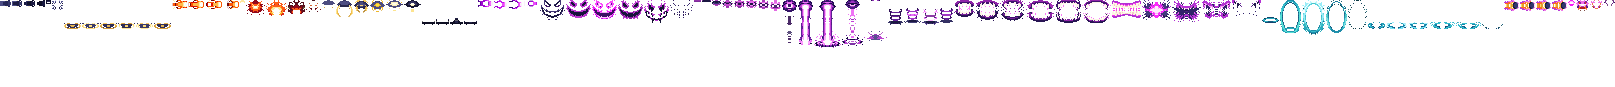
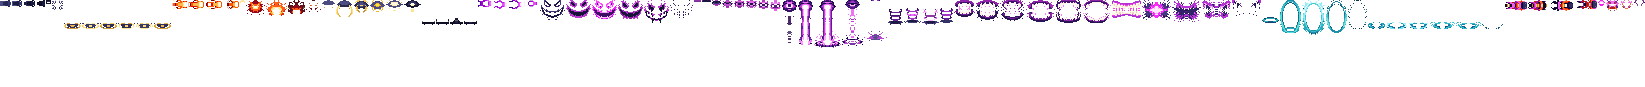
Hwei: Gemini's r_paint (the user's later JPG) replaces the drawn one - read 24 x 12, the white inside its spiral loops and its pale fringe keyed; sheets re-imported

diff --git a/tools/art/process_hwei_fx.py b/tools/art/process_hwei_fx.py
@@ -11,8 +11,9 @@ Which JPGs are his: the 24 downloaded 16:21-16:29 (Gemini_Generated_Image_rxl9yn
 edy4w2* x2), copied to --src as g00.jpg .. g23.jpg in the order they were made (not committed). The last two (edy4w2*,
 16:28) are Qiyana's River / Grass pictures (a blue puddle with white spray, a green grass ring) - not his, left alone;
 the first 22 follow the pack's order but for the ult's projectile and canvas, which Gemini left out: g20 is r_burst,
-g21 r_hit. The two missing ones, r_paint (the spiralling paint bolt) and r_canvas (the painted spiral on the ground,
-3 s), are drawn here square by square on the pack's own ramps (draw_r_paint, draw_r_canvas), symmetric like the rest.
+g21 r_hit. Of the two missing ones the user had Gemini draw r_paint (the spiralling paint bolt) afterwards
+(Gemini_Generated_Image_qpgagw*, 16:57: --src g22_r_paint.jpg; read 24 x 12, the pack's 20 x 10 mashed its spiral); r_canvas (the painted spiral on the ground, 3 s) is drawn
+here square by square on the pack's own ramps (draw_r_canvas), symmetric like the rest, until GPT's comes.
 The JPGs have no alpha and backgrounds of black, white, grey, a grey gradient (slow), a painted chequerboard (q_q_ball)
 and mixed cells (q_q_hit, r_burst, r_hit); every cell is keyed by flooding in from its own border. e_e_open has pure
 white blocks pasted into its black ground (WHITE_BLOCKS: painted black first), r_burst one in its black first cell
@@ -58,6 +59,10 @@ NEUTRAL = 18                  # a ground colour is grey: black, white, a panel, 
 # keyed by saturation instead: slow's ground is a gradient from black to grey (its middle tones match neither end) and
 # its puddle's darkest navy is nearly black; the ground has no colour at all, the ink is blue (holes in a blob filled)
 SAT_KEY = {"slow": 9}
+# a white ground also keyed where the flood from the border cannot reach: inside r_paint's spiral loops (it has no white
+# of its own)
+WHITE = {"r_paint"}
+PALE = {"r_paint"}           # and its pale fringe squares (white ground blended into the magenta) dropped after the read
 SQUASH = {"p_mark": 0.5, "w_pool": 0.36}         # front-drawn rings brought down to ground ellipses
 WHITE_BLOCKS = {"e_e_open"}
 FIRST_WHITE = {"r_burst": 7}                     # its first (black) cell of seven: the white in it is no drawing
@@ -70,10 +75,10 @@ SOURCES = {
     "g12.jpg": ("e_w_open", 8, (20, 14)), "g13.jpg": ("e_w_hit", 5, (26, 48)), "g14.jpg": ("e_bound", 4, (16, 16)),
     "g15.jpg": ("e_e_open", 6, (28, 24)), "g16.jpg": ("e_e_hit", 5, (28, 24)), "g17.jpg": ("w_pool", 6, (40, 16)),
     "g18.jpg": ("w_shield", 5, (22, 40)), "g19.jpg": ("w_haste", 6, (24, 8)), "g20.jpg": ("r_burst", 7, (56, 44)),
-    "g21.jpg": ("r_hit", 4, (14, 14)),
+    "g21.jpg": ("r_hit", 4, (14, 14)), "g22_r_paint.jpg": ("r_paint", 4, (24, 12)),
 }
-KEY = {"a_ink": 26, "a_hit": 26, "e_q_face": 22}     # white grounds: his pale pink and white cores kept
-THIN = {"q_w_tell": 0.35, "q_w_hit": 0.35, "a_hit": 0.25, "p_burst": 0.4, "q_q_hit": 0.4, "e_q_hit": 0.4,
+KEY = {"a_ink": 26, "a_hit": 26, "e_q_face": 22, "r_paint": 30}     # white grounds: his pale pink and white cores kept
+THIN = {"r_paint": 0.45, "q_w_tell": 0.35, "q_w_hit": 0.35, "a_hit": 0.25, "p_burst": 0.4, "q_q_hit": 0.4, "e_q_hit": 0.4,
         "e_w_hit": 0.4, "e_e_hit": 0.4, "w_shield": 0.35, "w_haste": 0.35, "w_pool": 0.4, "r_burst": 0.4,
         "r_hit": 0.4, "e_bound": 0.4, "e_w_open": 0.4}
 
@@ -141,6 +146,9 @@ def cells_of(img, name, n):
             fg = ndimage.binary_fill_holes(fg)
         else:
             fg = key(sub, KEY.get(name, S.KEY_D))
+        if name in WHITE:
+            f = sub.astype(int)
+            fg &= ~((f.max(-1) - f.min(-1) < 16) & (f.mean(-1) > 228))
         a4 = np.zeros(sub.shape[:2] + (4,), np.uint8)
         a4[..., :3] = sub
         a4[..., 3] = np.where(fg, 255, 0)
@@ -172,67 +180,6 @@ def prepared(name, img):
 
 
 # ---------------------------------------------------------------------------------------------- drawn here
-def stroke(c, pts, width, col):
-    """A brush stroke along a polyline (game squares), `width` squares thick, on cell c (no mirror)."""
-    h, w = c.shape[:2]
-    for (x0, y0), (x1, y1) in zip(pts, pts[1:]):
-        n = max(2, int(math.hypot(x1 - x0, y1 - y0) * 3))
-        for t in np.linspace(0, 1, n):
-            x, y = x0 + (x1 - x0) * t, y0 + (y1 - y0) * t
-            r = width / 2
-            for yy in range(int(math.floor(y - r)), int(math.ceil(y + r)) + 1):
-                for xx in range(int(math.floor(x - r)), int(math.ceil(x + r)) + 1):
-                    if 0 <= xx < w and 0 <= yy < h and (xx + 0.5 - x) ** 2 + (yy + 0.5 - y) ** 2 <= r * r + 0.15:
-                        c[yy, xx, :3] = col
-                        c[yy, xx, 3] = 255
-
-
-def draw_r_paint():
-    """Spiraling Despair's bolt, 20 x 10, four looping frames flying right: a dark indigo ball 6 squares across at the
-    front (its upper front lit, a magenta rim on its nose), a magenta and an orange stroke curling back from it into a
-    tail 12 squares long, a gold strand between them; the curl travels back a quarter turn each frame. Drawn in the top
-    half, mirrored top to bottom (the game turns it with its flight)."""
-    W, H = 20, 10
-    frames = []
-    cx, cy, R = 15.0, H / 2, 3.1
-    for f in range(4):
-        c = np.zeros((H, W, 4), np.uint8)
-        ph = f * math.pi / 2
-        # the tail: two strokes on a sine round the middle line, the outer magenta, the inner orange (top half only)
-        mag, ora = [], []
-        for k in range(26):
-            x = 13.5 - k * 0.5
-            t = k / 25
-            amp = 3.6 * (1 - t) ** 0.6 + 0.4
-            s = abs(math.sin(ph + k * 0.42))
-            mag.append((x, cy - 0.6 - amp * (0.55 + 0.45 * s)))
-            ora.append((x, cy - 0.4 - amp * (0.25 + 0.35 * s)))
-        stroke(c, mag[:20], 1.6, DREAD[3])
-        stroke(c, mag[:12], 1.0, DREAD[2])
-        stroke(c, ora[:18], 1.3, FIRE[3])
-        stroke(c, ora[:9], 0.8, FIRE[2])
-        for x in range(4, 12):                                   # the gold strand on the middle line, broken
-            if (x + f) % 4:
-                c[H // 2 - 1, x, :3] = GOLD[2] if (x + f) % 4 == 1 else GOLD[3]
-                c[H // 2 - 1, x, 3] = 255
-        # the ball
-        for y in range(H // 2):
-            for x in range(W):
-                d = math.hypot(x + 0.5 - cx, y + 0.5 - cy)
-                if d <= R:
-                    col = INK[2] if d > R - 1.0 else INK[1]
-                    if x + 0.5 - cx > 1.4 and d > R - 1.1:
-                        col = DREAD[2]                           # the magenta rim on its nose
-                    if x + 0.5 - cx > 2.3 and y + 0.5 - cy > -1.2:
-                        col = DREAD[1]
-                    c[y, x, :3] = col
-                    c[y, x, 3] = 255
-        c[H // 2 - 3, int(cx), :3] = INK[0]                      # the lit spot on its upper front
-        c[H // 2 - 2, int(cx) + 1, :3] = INK[0]
-        frames.append(PC.symmetric_tb(c))
-    return frames
-
-
 def draw_r_canvas():
     """Spiraling Despair's canvas on the ground, 56 x 22, 14 frames over 3 s: a dark indigo ink oval growing from 20
     squares wide (frame 1) to 52 x 17 (frame 6) and staying; on it magenta and orange strokes curling round the middle
@@ -281,7 +228,7 @@ def draw_r_canvas():
     return frames
 
 
-DRAWN = {"r_paint": draw_r_paint, "r_canvas": draw_r_canvas}
+DRAWN = {"r_canvas": draw_r_canvas}
 
 
 def main():
@@ -300,6 +247,10 @@ def main():
         else:
             img = prepared(name, Image.open(S.lp(os.path.join(a.src, fn))))
             cells = S.effect(name, n, size, img)
+            if name in PALE:
+                for c in cells:
+                    f = c[..., :3].astype(int)
+                    c[(f.mean(-1) > 205) & (f.max(-1) - f.min(-1) < 80)] = 0
             src = f"gemini {fn}"
         h, w = cells[0].shape[:2]
         strip = np.concatenate(cells, axis=1)
@@ -309,7 +260,7 @@ def main():
         sheets.append((name, strip, w))
         print(f"{name}: {len(cells)} frames of {w}x{h}")
     with open(S.lp(os.path.join(OUT, "manifest.json")), "w", encoding="utf-8", newline="\n") as f:
-        json.dump({"effects": entries, "made_by": "Gemini (the user's images; r_paint and r_canvas drawn here), "
+        json.dump({"effects": entries, "made_by": "Gemini (the user's images; r_canvas drawn here), "
                    "processed by tools/art/process_hwei_fx.py"}, f, ensure_ascii=False, indent=1)
     if a.review:
         from PIL import ImageDraw
